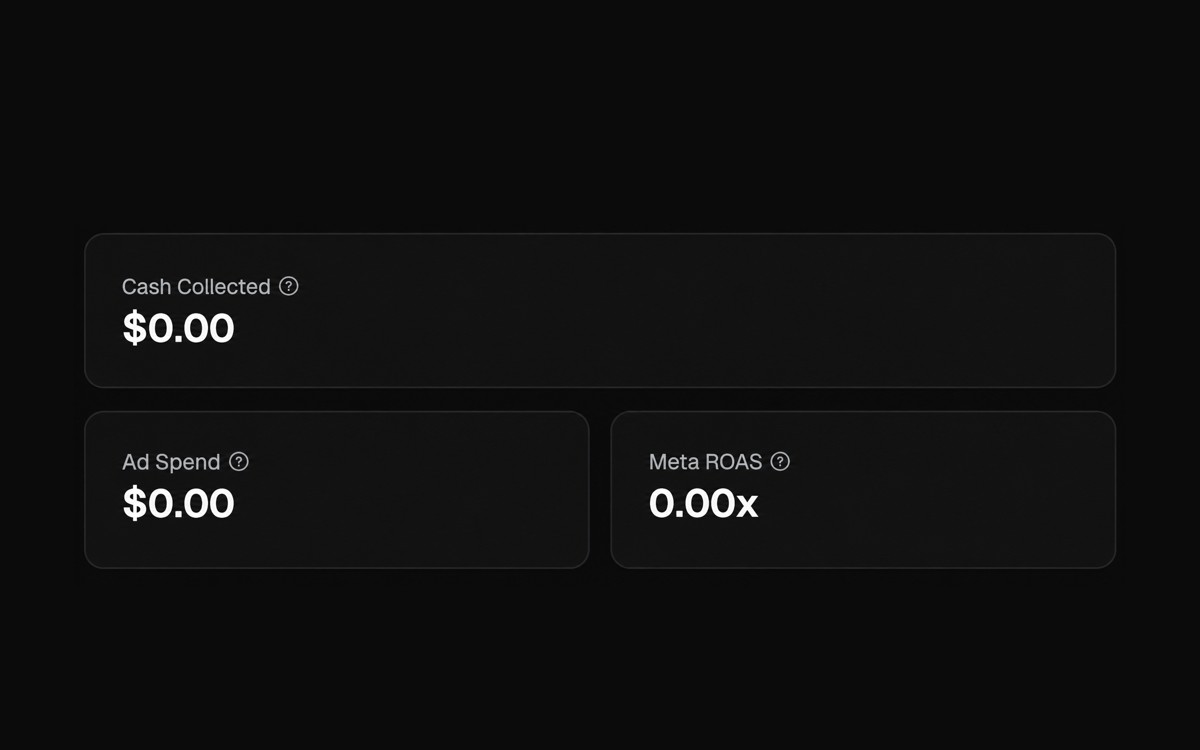
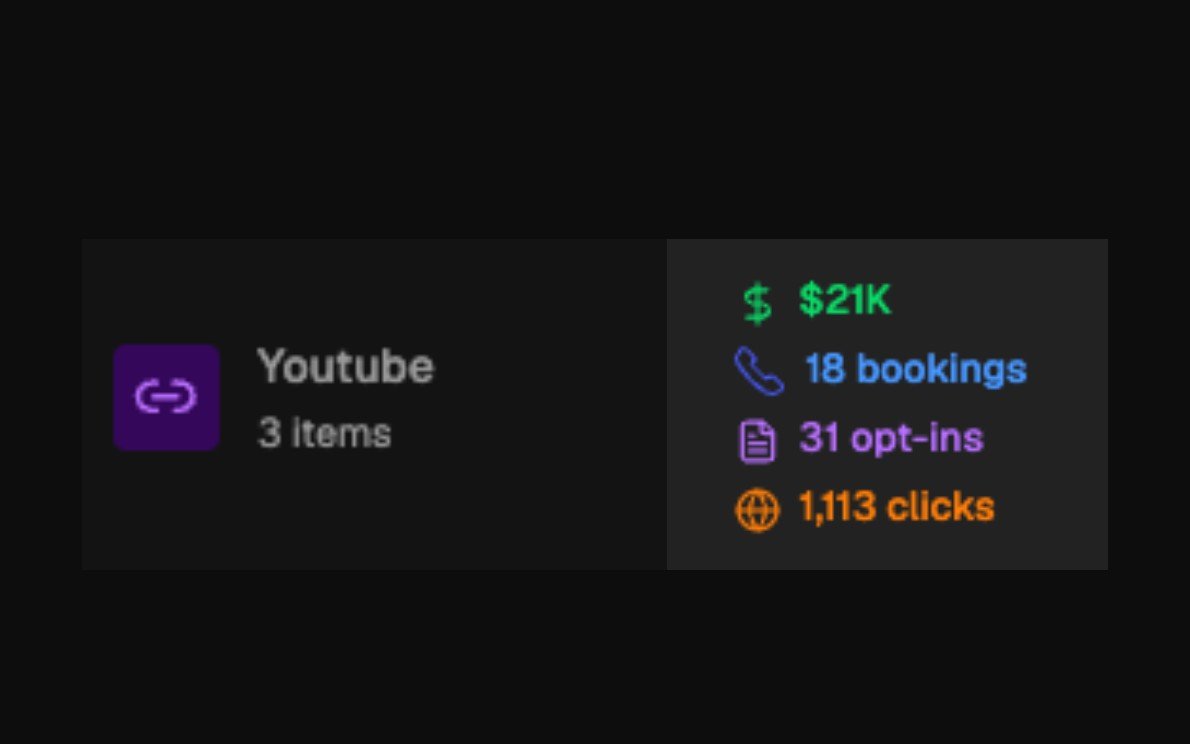
Card 2 Before screenshot: $21K from YouTube

diff --git a/script.js b/script.js
@@ -13,7 +13,7 @@ const COMPARISONS = [
   {
     title: "10x ROAS First 30 Days",
     tags: ["B2C Mentorship Offer", "Real Estate Niche", "$8K–$12K Ticket"],
-    before: { label: "Before", img: "assets/compare/2-organic.jpg", caption: "Before: $0 cash collected from paid", text: "This real estate mentor had validated his first $21K on organic, but most of his calls weren’t with buyers. They were with people who wanted to network, pick his brain, or talk deals without any capital to back it up. Only a handful could actually afford an $8K–$12K program, and he had no way to control who came through, or when." },
+    before: { label: "Before", img: "assets/compare/2-organic.jpg", caption: "Before: $21K from YouTube · 18 bookings · 31 opt-ins · 1,113 clicks", text: "This real estate mentor had validated his first $21K on organic, but most of his calls weren’t with buyers. They were with people who wanted to network, pick his brain, or talk deals without any capital to back it up. Only a handful could actually afford an $8K–$12K program, and he had no way to control who came through, or when." },
     after: { label: "After", img: "assets/compare/2-paid.jpg", caption: "After: paid funnel results", text: "We built him a paid funnel from the ground up: a new VSL, landing page, application, pre-call warm-up, and our Direct Offer ads speaking directly to investors with capital ready to deploy. His first $3K in ad spend turned into $33K, a 10x ROAS in month one. We scaled the next month to $49K at an 8.6x ROAS, with his team closing nearly 40% of calls." },
     inputs: [["$3K", "Ad spend"]],
     outputs: [["$33K", "Cash collected"], ["10x", "ROAS", true]],
